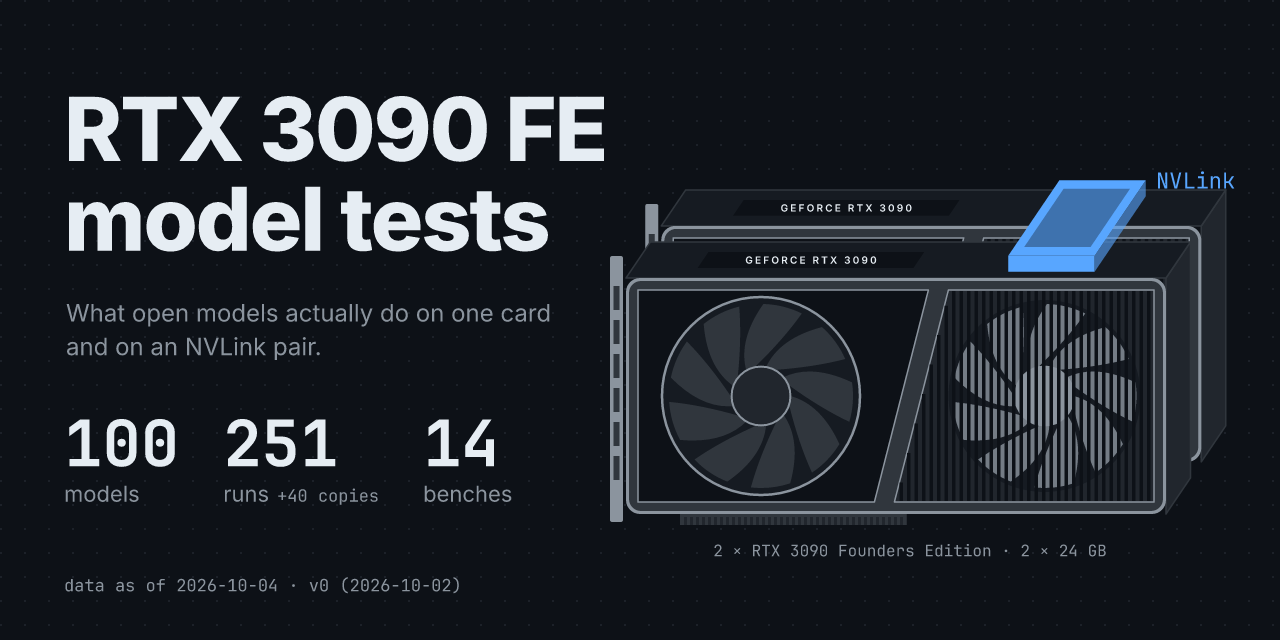
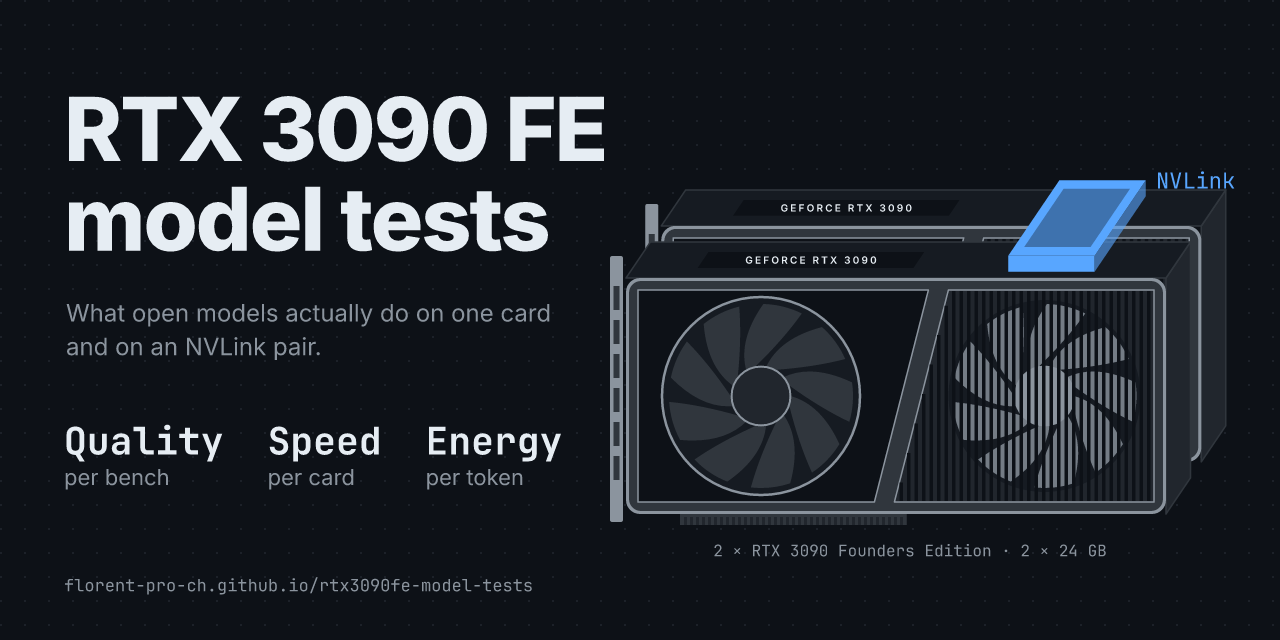
Social preview made static: no count, date or version label (the image is uploaded by hand in the repository settings and would go stale); the title, the lead, three features (quality per bench, speed per card, energy per token), the NVLink pair with its caption and the site's address; the site's de

Changed region(s): [[0.0312, 0.6562, 0.4375, 0.7812], [0.0312, 0.9062, 0.4062, 0.9375]]

diff --git a/site/src/lib/og/social.ts b/site/src/lib/og/social.ts
@@ -27,7 +27,7 @@ import { fePair } from './fe-card';
 
 interface ConfigSpec { hardware: string; chip: string; schematic: '1x' | '2x' | '2x2'; count_suffix?: string }
 interface BannerSpec { size: [number, number]; title: string; lead: string; console_title: string; configs: ConfigSpec[] }
-interface SocialSpec { size: [number, number]; title_lines: string[]; lead: string; pair_hardware: string; bridge_label: string; caption: string }
+interface SocialSpec { size: [number, number]; title_lines: string[]; lead: string; features: [string, string][]; pair_hardware: string; bridge_label: string; caption: string; footer: string }
 
 export const SPEC_DIR = path.join(ROOT, 'figures', 'specs');
 function spec<T>(name: string): T {
@@ -133,13 +133,14 @@ export function bannerSvg(): { svg: string; alt: string } {
 
 /**
  * The social preview, after the Figma frame "Social preview v2 · A · the card"
- * (20:14, 1280 × 640): the title on two lines, the lead, the site's three
- * counters, the data date and the version label on the left; on the right the
- * pair of RTX 3090 Founders Edition cards (fe-card.ts, DESIGN.md Motifs) with
- * "NVLink" beside the bridge and a caption whose numbers come from the pair's
- * hardware record.
+ * (20:14, 1280 × 640): the title on two lines, the lead, three features of
+ * the spec and the site's address on the left; on the right the pair of RTX
+ * 3090 Founders Edition cards (fe-card.ts, DESIGN.md Motifs) with "NVLink"
+ * beside the bridge and a caption whose numbers come from the pair's hardware
+ * record. Static by design (2026-10-05): no count, date or version label, since
+ * the image is uploaded by hand in the repository settings and would go stale.
  */
-const COUNT_KEYS = ['models', 'runs', 'benches'] as const;
+const FEATURE_RIGHT = 572; // the features end before the pair, drawn from x = 596
 
 function pairCaption(sp: SocialSpec): string {
   const hw = hardwareById(sp.pair_hardware);
@@ -152,8 +153,6 @@ function pairCaption(sp: SocialSpec): string {
 
 /** The 1280 × 640 composition, without its background (so it can be scaled into the 1200 × 630 card). */
 function socialBody(sp: SocialSpec): { body: string; alt: string } {
-  const k = counts();
-  const date = dataAsOf() ?? 'undated';
   let s = '';
   // title: Inter ExtraBold 88, line height 1.02, tracking -2.5 %
   sp.title_lines.forEach((ln, i) => {
@@ -164,31 +163,32 @@ function socialBody(sp: SocialSpec): { body: string; alt: string } {
   lead.forEach((ln, i) => {
     s += textTop(66, 296 + i * 24 * 1.4, 1.4, ln, { face: 'sans400', size: 24, fill: 'muted' });
   });
-  // the three counters: JetBrains Mono Bold 64 over an Inter 22 --muted word, 44 apart
+  // the three features, where the counters were: JetBrains Mono Bold over an Inter 22 --muted word, 44 apart,
+  // the size the largest (at most 52) that ends them before the pair
+  const gap = 44;
+  const widthAt = (size: number) => sp.features.reduce((w, [head, word]) =>
+    w + Math.max(textWidth(head, 'mono700', size), spansWidth([{ s: word, face: 'sans400', size: 22, fill: 'muted' }])), 0) + gap * (sp.features.length - 1);
+  let fsz = 52;
+  while (fsz > 28 && 64 + widthAt(fsz) > FEATURE_RIGHT) fsz -= 2;
   let x = 64;
-  for (const key of COUNT_KEYS) {
-    const num = fmtNum(k[key]);
-    s += textTop(x, 408, 1.1, num, { face: 'mono700', size: 64, fill: 'text' });
-    const word: Span[] = [{ s: key, face: 'sans400', size: 22, fill: 'muted' }];
-    // Copies of earlier runs are shown apart, with the site's words (DESIGN.md: count distinct runs).
-    if (key === 'runs' && k.run_copies > 0) word.push({ s: `+${fmtNum(k.run_copies)} copies`, face: 'mono400', size: 17, fill: 'muted', dx: 8 });
-    s += spans(x, baseline(408 + 64 * 1.1 + 2, 22, autoLineHeight('sans400'), 'sans400'), word);
-    x += Math.max(textWidth(num, 'mono700', 64), spansWidth(word)) + 44;
+  for (const [head, word] of sp.features) {
+    s += textTop(x, 420, 1.1, head, { face: 'mono700', size: fsz, fill: 'text' });
+    const w: Span[] = [{ s: word, face: 'sans400', size: 22, fill: 'muted' }];
+    s += spans(x, baseline(420 + fsz * 1.1 + 2, 22, autoLineHeight('sans400'), 'sans400'), w);
+    x += Math.max(textWidth(head, 'mono700', fsz), spansWidth(w)) + gap;
   }
-  // footer: the data date and the version label
-  const footer = `data as of ${date} · ${VERSION_LABEL}`;
-  s += textTop(64, 574, autoLineHeight('mono400'), footer, { face: 'mono400', size: 17, fill: 'muted' });
+  // footer: the site's address (never a date or a version: the image is uploaded by hand)
+  s += textTop(64, 574, autoLineHeight('mono400'), sp.footer, { face: 'mono400', size: 17, fill: 'muted' });
   // the pair, the bridge's word and the caption
   const pair = fePair(sp.bridge_label);
   s += group(pair.svg, 596, 128);
   const caption = pairCaption(sp);
   s += textTop(910, 540, autoLineHeight('mono400'), caption, { face: 'mono400', size: 16, fill: 'muted', anchor: 'middle' });
-  const copies = k.run_copies > 0 ? ` (+${fmtNum(k.run_copies)} copies)` : '';
   const alt =
     `${sp.title_lines.join(' ')}: ${sp.lead} ` +
-    `${fmtNum(k.models)} models, ${fmtNum(k.runs)} runs${copies}, ${fmtNum(k.benches)} benches. ` +
+    `${sp.features.map(([head, word]) => `${head} ${word}`).join(', ')}. ` +
     `Drawing: two RTX 3090 Founders Edition cards joined by the ${sp.bridge_label} bridge, captioned ${caption.replace(/ · /g, ', ')}. ` +
-    `Data as of ${date}; ${VERSION_LABEL}.`;
+    `${sp.footer}.`;
   return { body: s, alt };
 }
 

diff --git a/DESIGN.md b/DESIGN.md
@@ -191,9 +191,11 @@ badge its text (`oracle`, `judge`, `pre-pin`, `TP2`, `layer split`).
   and the version label. The numbers are the model page's: the same headline
   rule, the same formatting, and nothing from the uncensored lab. The default
   card is the repository's social preview (Figma "Social preview v2 · A")
-  fitted to 1200 × 630: the title, the lead, the counts of models, runs and
-  benches (the site's counters), the pair with `NVLink` and its caption, the
-  data date and the version label.
+  fitted to 1200 × 630: the title, the lead, three features written in its
+  spec (quality per bench, speed per card, energy per token), the pair with
+  `NVLink` and its caption, and the site's address. Since 2026-10-05 it holds
+  no count, date or version label: the social preview is uploaded by hand in
+  the repository settings, so anything that changes would go stale there.
 - **Dark only.** A card is shown by another site, which does not know the
   reader's theme; the dark theme is the default identity.
 - **Small.** A card stays under 150 KB; above that it is re-encoded with a
